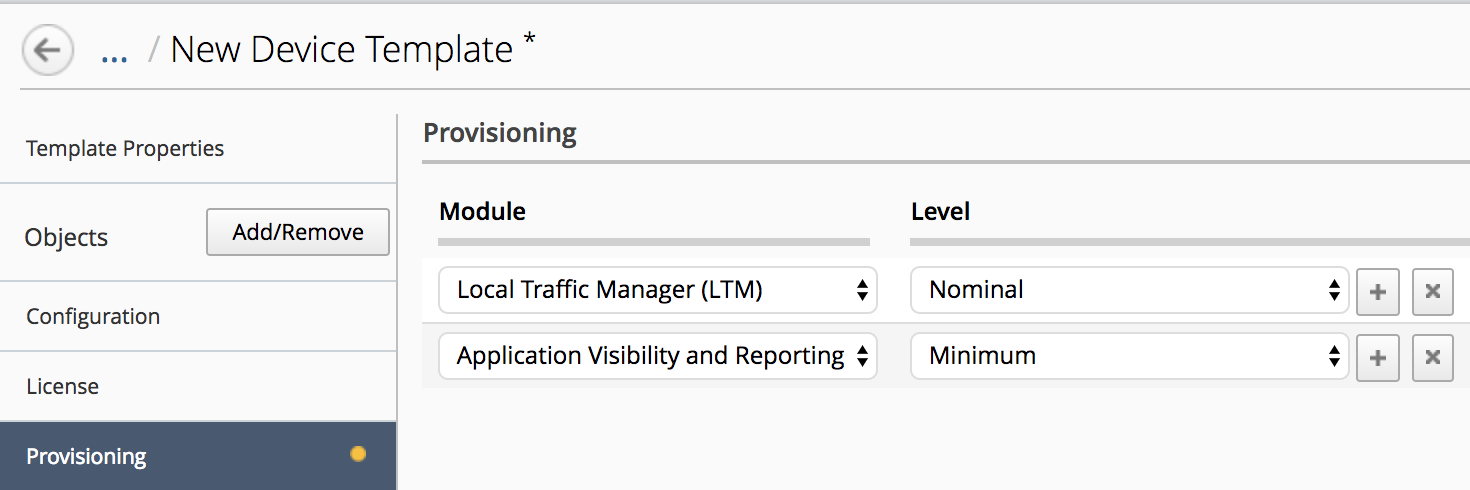
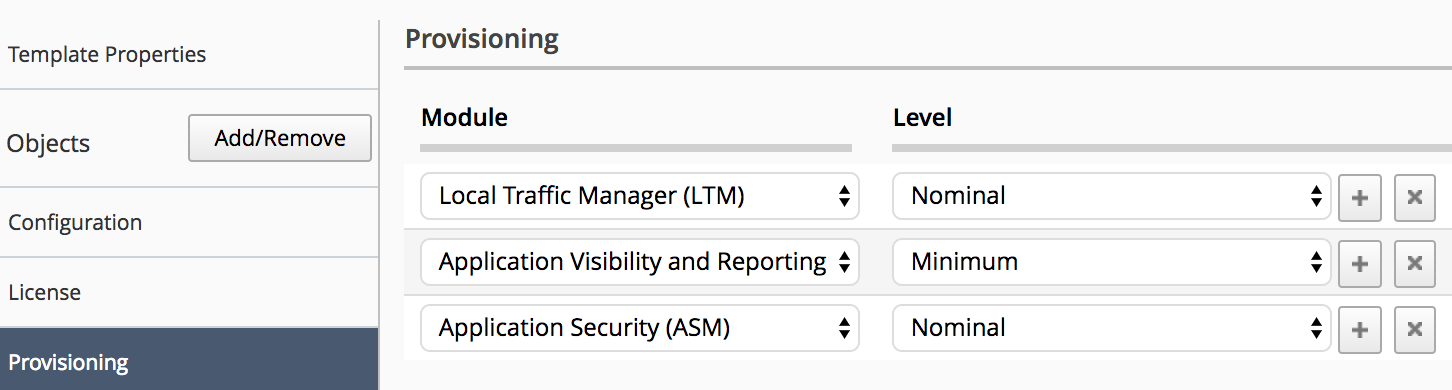
fix on class2/module1/lab1

diff --git a/docs/source/class2/module1/lab1.rst b/docs/source/class2/module1/lab1.rst
@@ -134,8 +134,9 @@ Click on the *License* tab and setup the following:
 Click on the *Provisioning* tab,
 
 * Select the module *Local Traffic Manager (LTM)* and set it to *Nominal*
-* Select the module *Application Visibility and Reporting* and set it to *Minimum*
-
+* Select the module *Application Visibility and Reporting* and set it to
+  *Minimum*
+* Select the module *Application Security (ASM)* and set it to *Nominal*
 
 .. image:: ../pictures/module1/img_module1_lab1_7.png
   :align: center
